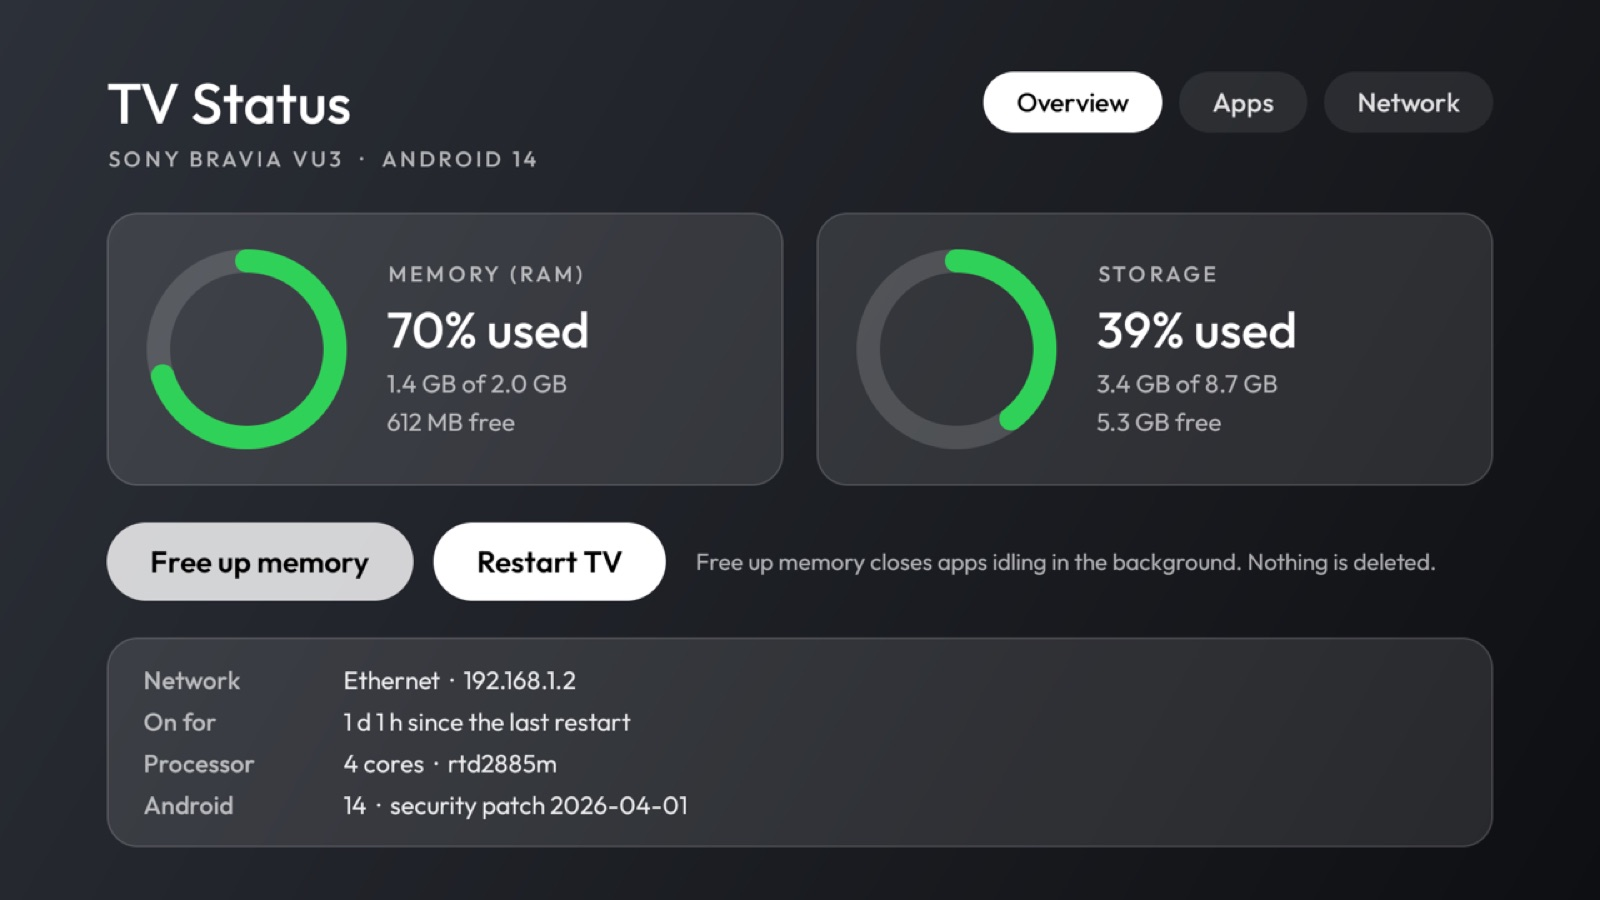
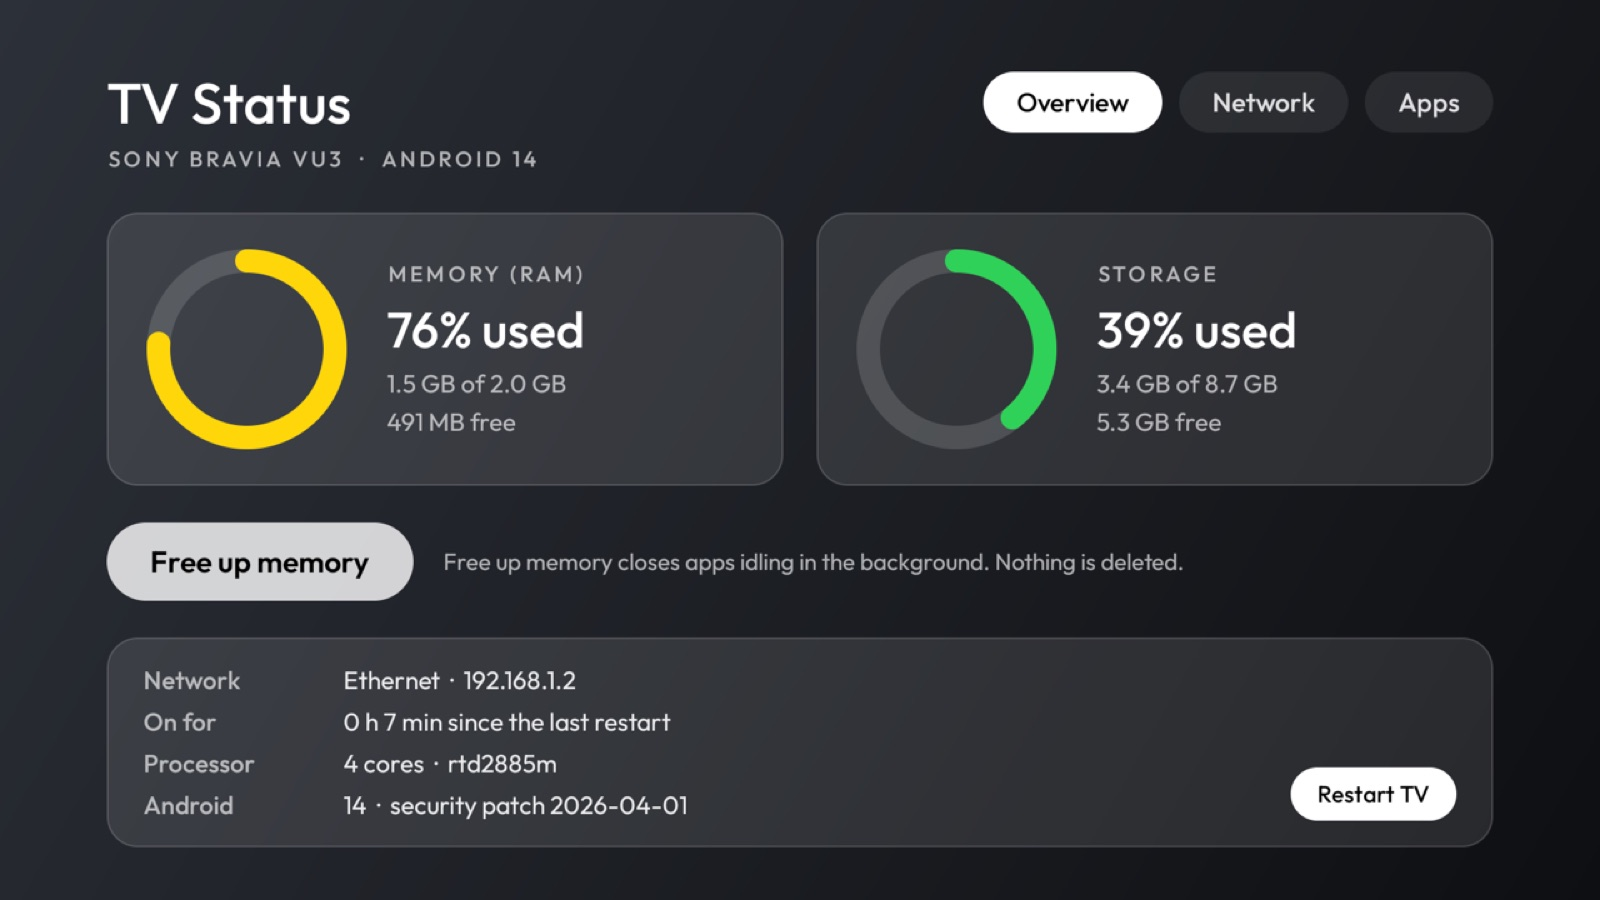
TV Status: tabs in the order Overview, Network, Apps; Restart TV as a small button at the foot of Overview

diff --git a/apps/status-tv/app/src/main/java/com/glasstv/status/MainActivity.java b/apps/status-tv/app/src/main/java/com/glasstv/status/MainActivity.java
@@ -100,7 +100,7 @@ public class MainActivity extends Activity {
         tabApps = tab("Apps");
         tabNetwork = tab("Network");
         head.addView(tabOverview);
-        for (TextView t : new TextView[]{tabApps, tabNetwork}) {
+        for (TextView t : new TextView[]{tabNetwork, tabApps}) {
             LinearLayout.LayoutParams tlp = new LinearLayout.LayoutParams(ViewGroup.LayoutParams.WRAP_CONTENT, ViewGroup.LayoutParams.WRAP_CONTENT);
             tlp.leftMargin = dp(10);
             head.addView(t, tlp);
@@ -151,15 +151,6 @@ public class MainActivity extends Activity {
         freeButton.setBackground(buttonBackground());
         freeButton.setOnClickListener(v -> freeMemory());
         row.addView(freeButton);
-        restartButton = text("Restart TV", 18, 0xFF000000, 600);
-        restartButton.setPadding(dp(26), dp(12), dp(26), dp(12));
-        restartButton.setFocusable(true);
-        restartButton.setClickable(true);
-        restartButton.setBackground(buttonBackground());
-        restartButton.setOnClickListener(v -> restartTv());
-        LinearLayout.LayoutParams rlp = new LinearLayout.LayoutParams(ViewGroup.LayoutParams.WRAP_CONTENT, ViewGroup.LayoutParams.WRAP_CONTENT);
-        rlp.leftMargin = dp(12);
-        row.addView(restartButton, rlp);
         freeNote = text(FREE_NOTE, 14, MUTE, 400);
         freeNote.setPadding(dp(18), 0, 0, 0);
         row.addView(freeNote, new LinearLayout.LayoutParams(0, ViewGroup.LayoutParams.WRAP_CONTENT, 1f));
@@ -175,16 +166,40 @@ public class MainActivity extends Activity {
         infoValues = text("", 15, 0xE6FFFFFF, 400);
         infoValues.setLineSpacing(dp(6), 1f);
         box.addView(info, new LinearLayout.LayoutParams(dp(120), ViewGroup.LayoutParams.WRAP_CONTENT));
-        box.addView(infoValues);
+        box.addView(infoValues, new LinearLayout.LayoutParams(0, ViewGroup.LayoutParams.WRAP_CONTENT, 1f));
+        // Restart TV: small and out of the way, at the foot of the box beside "On for".
+        restartButton = text("Restart TV", 14, 0xD9FFFFFF, 500);
+        restartButton.setPadding(dp(16), dp(7), dp(16), dp(7));
+        restartButton.setFocusable(true);
+        restartButton.setClickable(true);
+        restartButton.setTextColor(new android.content.res.ColorStateList(
+                new int[][]{{android.R.attr.state_focused}, {}}, new int[]{0xFF000000, 0xD9FFFFFF}));
+        GradientDrawable chipOn = new GradientDrawable();
+        chipOn.setColor(0xFFFFFFFF);
+        chipOn.setCornerRadius(dp(16));
+        GradientDrawable chipOff = new GradientDrawable();
+        chipOff.setColor(0x14FFFFFF);
+        chipOff.setCornerRadius(dp(16));
+        chipOff.setStroke(Math.max(1, dp(1)), 0x40FFFFFF);
+        android.graphics.drawable.StateListDrawable chip = new android.graphics.drawable.StateListDrawable();
+        chip.addState(new int[]{android.R.attr.state_focused}, chipOn);
+        chip.addState(new int[]{}, chipOff);
+        restartButton.setBackground(chip);
+        restartButton.setOnClickListener(v -> restartTv());
+        LinearLayout.LayoutParams rlp = new LinearLayout.LayoutParams(ViewGroup.LayoutParams.WRAP_CONTENT, ViewGroup.LayoutParams.WRAP_CONTENT);
+        rlp.gravity = Gravity.BOTTOM;
+        box.addView(restartButton, rlp);
         LinearLayout.LayoutParams ilp = new LinearLayout.LayoutParams(ViewGroup.LayoutParams.MATCH_PARENT, ViewGroup.LayoutParams.WRAP_CONTENT);
         ilp.topMargin = dp(22);
         overview.addView(box, ilp);
 
         // Up from a page reaches the tabs; selecting a tab shows its page, Down goes back into it.
-        for (View v : new View[]{freeButton, networkPage.button, appsPage.refresh, tabOverview, tabApps, tabNetwork}) {
+        for (View v : new View[]{freeButton, restartButton, networkPage.button, appsPage.refresh, tabOverview, tabApps, tabNetwork}) {
             v.setId(View.generateViewId());
         }
         freeButton.setNextFocusUpId(tabOverview.getId());
+        freeButton.setNextFocusDownId(restartButton.getId());
+        restartButton.setNextFocusUpId(freeButton.getId());
         networkPage.button.setNextFocusUpId(tabNetwork.getId());
         appsPage.refresh.setNextFocusUpId(tabApps.getId());
         tabOverview.setNextFocusDownId(freeButton.getId());
@@ -202,7 +217,7 @@ public class MainActivity extends Activity {
         freeButton.requestFocus();
     }
 
-    /** Shows tab {@code i} (0 Overview, 1 Apps, 2 Network); Apps and Network start their check the first time. */
+    /** Shows tab {@code i} (0 Overview, 1 Apps, 2 Network; the tabs show Overview, Network, Apps); Apps and Network start their check the first time. */
     private void show(int i) {
         overviewPage.setVisibility(i == 0 ? View.VISIBLE : View.GONE);
         appsPage.setVisibility(i == 1 ? View.VISIBLE : View.GONE);
@@ -320,7 +335,7 @@ public class MainActivity extends Activity {
     private void restartTv() {
         if (!restartArmed) {
             restartArmed = true;
-            restartButton.setText("Press OK again to restart");
+            restartButton.setText("Press OK again to restart the TV");
             freeNote.setText("The TV turns off and on again (about a minute). Anything playing stops.");
             handler.postDelayed(disarm, 5000);
             return;
